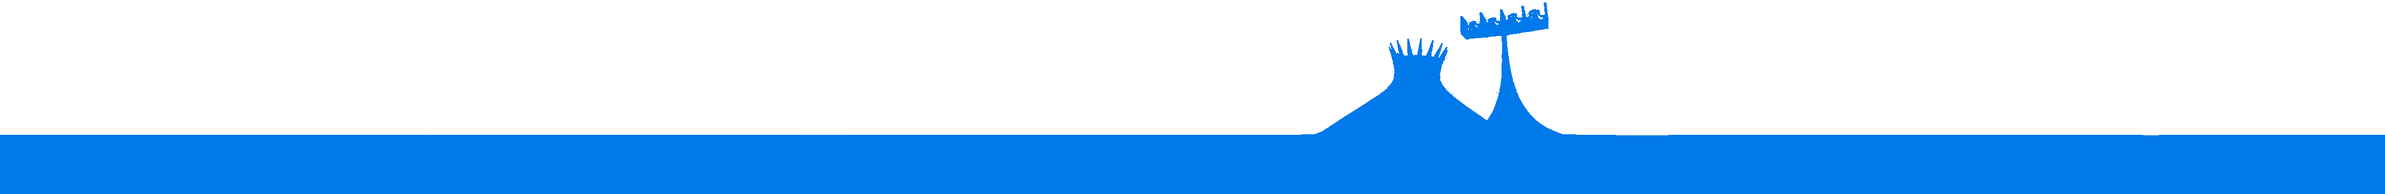
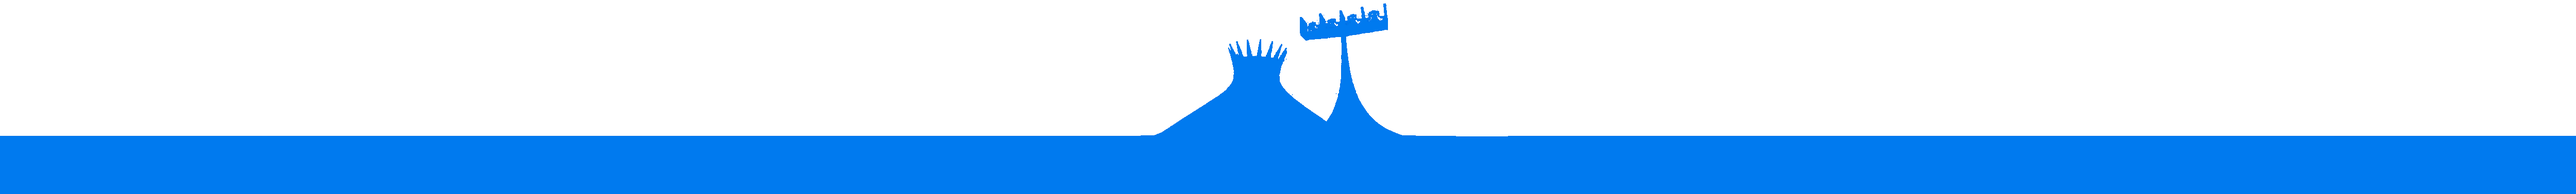
19122021-0233

Changed region(s): [[0.0, 0.2042, 1.0, 0.7003], [0.5909, 0.0292, 0.6531, 0.2042], [0.4976, 0.0584, 0.5598, 0.2042]]

diff --git a/estilos/principal.css b/estilos/principal.css
@@ -103,23 +103,23 @@ body
 }
 .capa div div:nth-child(1)  {
   background-image: url(../imagens/parallax/camada_E_-_cerrado.png);
-  animation: parallax_fg linear 70s infinite both;
+  animation: parallax_fgA linear 70s infinite both;
 }
 .capa div div:nth-child(2)  {
   background-image: url(../imagens/parallax/camada_D_-_ponte.png);
-  animation: parallax_fg linear 60s infinite both;
+  animation: parallax_fgB linear 60s infinite both;
 }
 .capa div div:nth-child(3)  {
   background-image: url(../imagens/parallax/camada_C_-_Congresso.png);
-  animation: parallax_fg linear 50s infinite both;
+  animation: parallax_fgC linear 50s infinite both;
 }
 .capa div div:nth-child(4)  {
   background-image: url(../imagens/parallax/camada_B_-_catedral.png);
-  animation: parallax_fg linear 40s infinite both;
+  animation: parallax_fgD linear 40s infinite both;
 }
 .capa div div:nth-child(6)  {
   background-image: url(../imagens/parallax/camada_A_-_parque.png);
-  animation: parallax_fg linear 30s infinite both;
+  animation: parallax_fgE linear 30s infinite both;
   
 
 }
@@ -130,12 +130,44 @@ body
   background-repeat: no-repeat;
   bottom: 3vh;
 }
-@keyframes parallax_fg {
+@keyframes parallax_fgA {
   0% {
     background-position: 100% 100%;
  }
   100% {
+    background-position: 400% 100%;
+ }
+}
+@keyframes parallax_fgB {
+  0% {
     background-position: 200% 100%;
+ }
+  100% {
+    background-position: 500% 100%;
+ }
+}
+@keyframes parallax_fgC {
+  0% {
+    background-position: 300% 100%;
+ }
+  100% {
+    background-position: 600% 100%;
+ }
+}
+@keyframes parallax_fgD {
+  0% {
+    background-position: 400% 100%;
+ }
+  100% {
+    background-position: 700% 100%;
+ }
+}
+@keyframes parallax_fgE {
+  0% {
+    background-position: 500% 100%;
+ }
+  100% {
+    background-position: 800% 100%;
  }
 }
 @keyframes parallax_bike {
